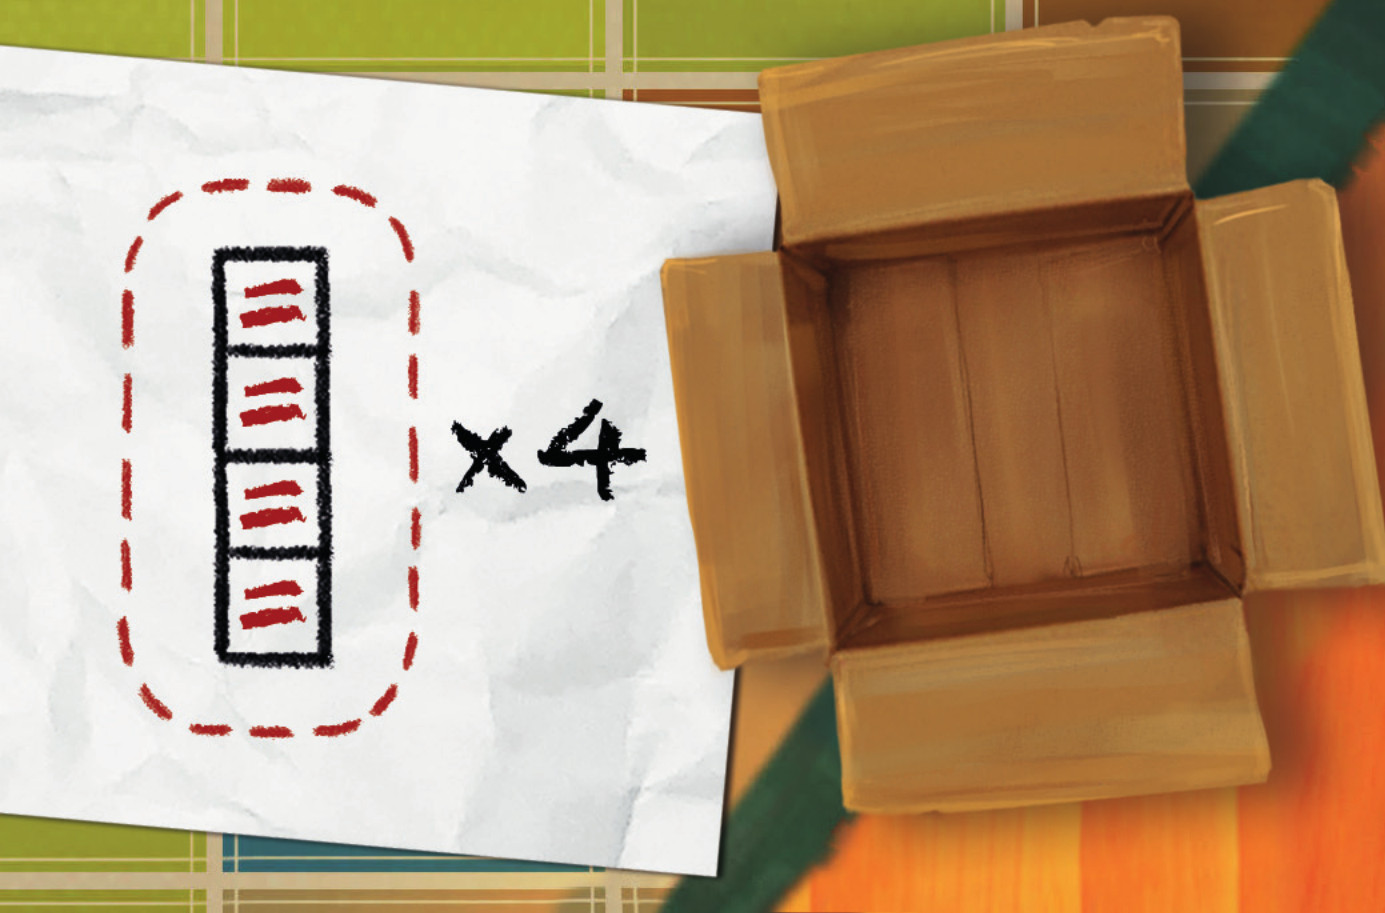
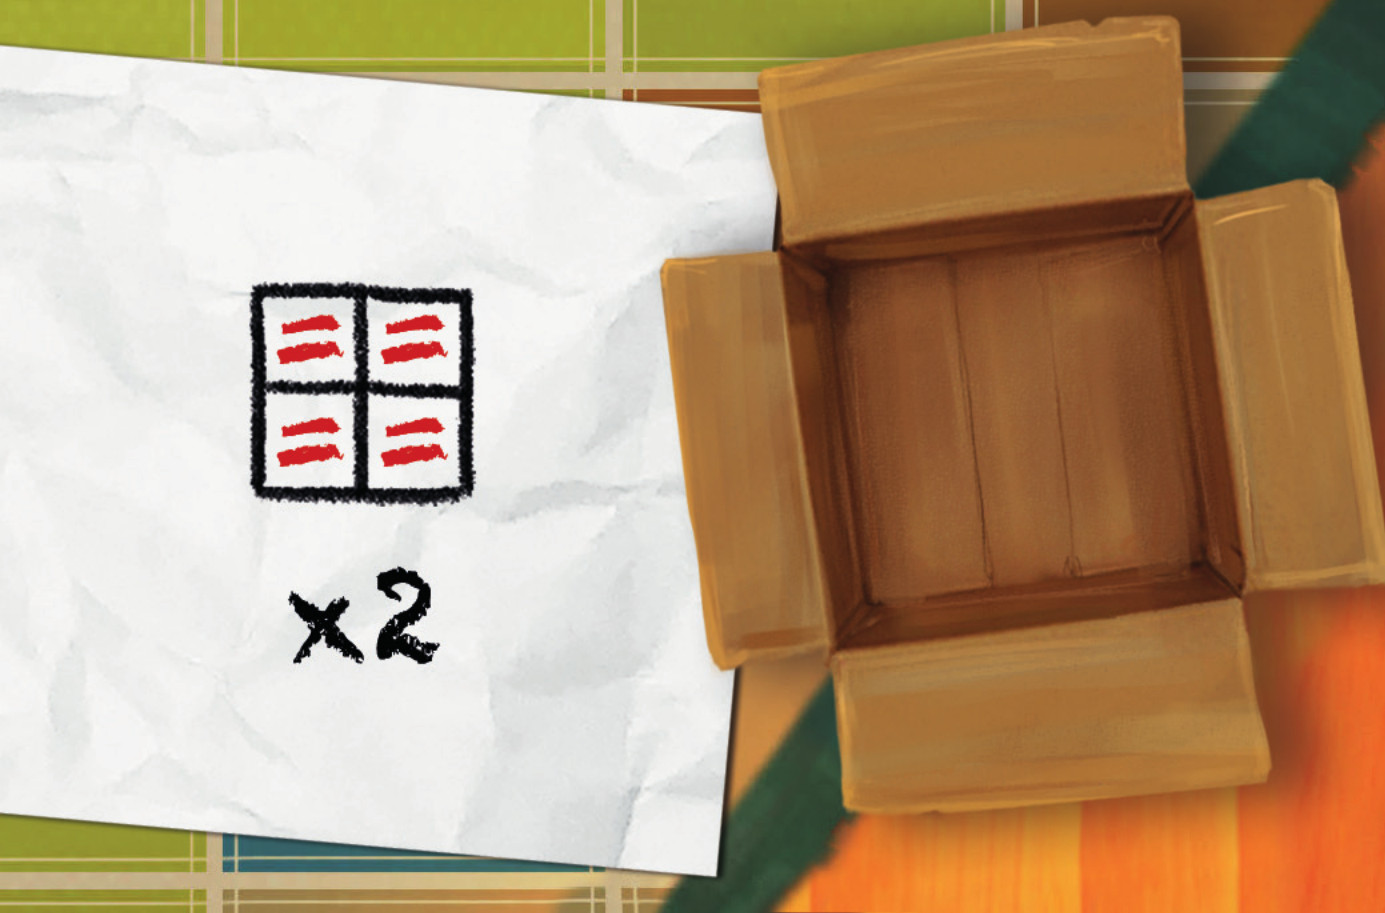
Update Common, images and test

diff --git a/src/test/java/it/polimi/ingsw/model/CommonGoalCardTest.java b/src/test/java/it/polimi/ingsw/model/CommonGoalCardTest.java
@@ -17,7 +17,7 @@ public class CommonGoalCardTest {
         int i = 0;
 
         // Diagonal -> matrix
-        card = cardFactory.getCommonGoalCard(0);
+        card = cardFactory.getCommonGoalCard(11);
         int numTest = 5;
         boolean result;
         while (i<numTest){
@@ -26,7 +26,7 @@ public class CommonGoalCardTest {
             i++;
         }
         // Diagonal -> diagonal
-        card = cardFactory.getCommonGoalCard(1);
+        card = cardFactory.getCommonGoalCard(6);
         numTest += 5;
         while (i<numTest){
             result = card.checkFullFil(input.getInputLibrary(i));
@@ -34,14 +34,6 @@ public class CommonGoalCardTest {
             i++;
         }
         //Group -> x4 group
-        card = cardFactory.getCommonGoalCard(2);
-        numTest += 3;
-        while (i<numTest){
-            result = card.checkFullFil(input.getInputLibrary(i));
-            Assertions.assertEquals(input.getResult(i), (result) ? 1 : 0, "Matrice numero: "+ i);
-            i++;
-        }
-        //Group -> x4 line
         card = cardFactory.getCommonGoalCard(3);
         numTest += 3;
         while (i<numTest){
@@ -49,8 +41,16 @@ public class CommonGoalCardTest {
             Assertions.assertEquals(input.getResult(i), (result) ? 1 : 0, "Matrice numero: "+ i);
             i++;
         }
+        //Group -> x4 line
+        card = cardFactory.getCommonGoalCard(1);
+        numTest += 3;
+        while (i<numTest){
+            result = card.checkFullFil(input.getInputLibrary(i));
+            Assertions.assertEquals(input.getResult(i), (result) ? 1 : 0, "Matrice numero: "+ i);
+            i++;
+        }
         //Group -> x2
-        card = cardFactory.getCommonGoalCard(4);
+        card = cardFactory.getCommonGoalCard(0);
         numTest += 2;
         while (i<numTest){
             result = card.checkFullFil(input.getInputLibrary(i));
@@ -58,7 +58,7 @@ public class CommonGoalCardTest {
             i++;
         }
         // Corner
-        card = cardFactory.getCommonGoalCard(5);
+        card = cardFactory.getCommonGoalCard(2);
         numTest += 2;
         while (i<numTest){
             result = card.checkFullFil(input.getInputLibrary(i));
@@ -66,7 +66,7 @@ public class CommonGoalCardTest {
             i++;
         }
         // X
-        card = cardFactory.getCommonGoalCard(6);
+        card = cardFactory.getCommonGoalCard(10);
         numTest +=2;
         while (i<numTest){
             result = card.checkFullFil(input.getInputLibrary(i));
@@ -74,14 +74,6 @@ public class CommonGoalCardTest {
             i++;
         }
         // Different -> columns
-        card = cardFactory.getCommonGoalCard(7);
-        numTest +=2;
-        while (i<numTest){
-            result = card.checkFullFil(input.getInputLibrary(i));
-            Assertions.assertEquals(input.getResult(i), (result) ? 1 : 0, "Matrice numero: "+ i);
-            i++;
-        }
-        // Different -> rows
         card = cardFactory.getCommonGoalCard(8);
         numTest +=2;
         while (i<numTest){
@@ -89,8 +81,16 @@ public class CommonGoalCardTest {
             Assertions.assertEquals(input.getResult(i), (result) ? 1 : 0, "Matrice numero: "+ i);
             i++;
         }
-        // MaxDifferent -> columns
+        // Different -> rows
         card = cardFactory.getCommonGoalCard(9);
+        numTest +=2;
+        while (i<numTest){
+            result = card.checkFullFil(input.getInputLibrary(i));
+            Assertions.assertEquals(input.getResult(i), (result) ? 1 : 0, "Matrice numero: "+ i);
+            i++;
+        }
+        // MaxDifferent -> columns
+        card = cardFactory.getCommonGoalCard(4);
         numTest += 3;
         while (i<numTest){
             result = card.checkFullFil(input.getInputLibrary(i));
@@ -98,7 +98,7 @@ public class CommonGoalCardTest {
             i++;
         }
         // MaxDifferent -> rows
-        card = cardFactory.getCommonGoalCard(10);
+        card = cardFactory.getCommonGoalCard(7);
         numTest += 3;
         while (i<numTest){
             result = card.checkFullFil(input.getInputLibrary(i));
@@ -106,7 +106,7 @@ public class CommonGoalCardTest {
             i++;
         }
         // SameEight
-        card = cardFactory.getCommonGoalCard(11);
+        card = cardFactory.getCommonGoalCard(5);
         numTest += 2;
         while (i<numTest){
             result = card.checkFullFil(input.getInputLibrary(i));

diff --git a/src/main/java/it/polimi/ingsw/model/common_card_classes/GroupCommonGoalCard.java b/src/main/java/it/polimi/ingsw/model/common_card_classes/GroupCommonGoalCard.java
@@ -24,7 +24,8 @@ public class GroupCommonGoalCard extends CommonGoalCard {
         int color, colorGroup=0;
 
 
-        if(type == 2){
+        if(type == 3){
+             // Square
             Item item1, item2, item3;
             Item pre1, pre2;
             for(int i = 0 ; i < 5; i++){
@@ -83,12 +84,14 @@ public class GroupCommonGoalCard extends CommonGoalCard {
                     }
                     if(allWithSameColor) {
                         colorGroup++;
+                        allWithSameColor = false;
                     }
                 }
             }
             return colorGroup >= 2;
         }
-        else if(type == 3 || type == 4){
+        else if(type == 1 || type == 0){
+            // Adiacency
             int nGroup = 0;
             int counter = 0;
             Item[][] mat = new Item[nRows][nColumns];
@@ -114,12 +117,12 @@ public class GroupCommonGoalCard extends CommonGoalCard {
                         mask[i][j] = true;
                         counter = countNearbyItems(i, j, counter, mat[i][j].getType(), mat);
 
-                        nGroup += counter / ((type == 3)? 4: 2);
+                        nGroup += counter / ((type == 1)? 4: 2);
                     }
 
                 }
             }
-            return nGroup >= ((type == 3) ? 4 : 6);
+            return nGroup >= ((type == 1) ? 4 : 6);
         }
         return false;
     }

diff --git a/src/main/java/it/polimi/ingsw/controller/Controller.java b/src/main/java/it/polimi/ingsw/controller/Controller.java
@@ -19,7 +19,8 @@ import java.util.ArrayList;
  * It provides methods for adding players, handling player actions, managing chat messages,
  * and maintaining the overall game flow.
  */
-public class Controller extends UnicastRemoteObject implements ControllerSkeleton {
+//extends UnicastRemoteObject
+public class Controller implements ControllerSkeleton {
 
     private final GameplaysHandler gameplaysHandler;
 
@@ -28,10 +29,8 @@ public class Controller extends UnicastRemoteObject implements ControllerSkeleto
      *
      * @throws RemoteException if a remote communication error occurs
      */
-    private final Registry registry;
-    public Controller(Registry registry) throws RemoteException{
+    public Controller() throws RemoteException{
         gameplaysHandler = new GameplaysHandler();
-        this.registry = registry;
     }
 
     /**
@@ -395,7 +394,7 @@ public class Controller extends UnicastRemoteObject implements ControllerSkeleto
      * @throws RemoteException if a remote communication error occurs
      */
     public synchronized void ping(int n) throws RemoteException{
-
+        System.out.println("Test -------");
     }
 
 }

diff --git a/src/main/java/it/polimi/ingsw/model/CommonGoalCardFactory.java b/src/main/java/it/polimi/ingsw/model/CommonGoalCardFactory.java
@@ -14,19 +14,19 @@ public class CommonGoalCardFactory {
      * @return A common goal card of the specified type, or {@code null} if the type is invalid.
      */
     public CommonGoalCard getCommonGoalCard(int type) {
-        if (type == 0 || type == 1)
+        if (type == 6 || type == 11)
             return new DiagonalCommonGoalCard(type);
-        else if (type == 2 || type == 3 || type == 4)
+        else if (type == 3 || type == 1 || type == 0)
             return new GroupCommonGoalCard(type);
-        else if (type == 5)
+        else if (type == 2)
             return new CornerCommonGoalCard(type);
-        else if (type == 6)
+        else if (type == 10)
             return new XCommonGoalCard(type);
-        else if (type == 7 || type == 8)
+        else if (type == 8 || type == 9)
             return new DifferentCommonGoalCard(type);
-        else if (type == 9 || type == 10)
+        else if (type == 4 || type == 7)
             return new MaxDifferentCommonGoalCard(type);
-        else if (type == 11)
+        else if (type == 5)
             return new SameEightCommonGoalCard(type);
         return null;
     }

diff --git a/src/main/java/it/polimi/ingsw/controller/ListenerRMI.java b/src/main/java/it/polimi/ingsw/controller/ListenerRMI.java
@@ -52,7 +52,9 @@ public class ListenerRMI extends Listener{
                                 }
                                 case JOIN ->{
                                         JoinMessage message = (JoinMessage) sendable;
+                                        System.out.println("TEST ----------------------------------------");
                                         client.playerJoin(message.name);
+                                        System.out.println("TEST join----------------------------------------");
                                 }
                                 case LEAVE -> {
                                         LeaveMessage message = (LeaveMessage) sendable;

diff --git a/src/main/java/it/polimi/ingsw/model/common_card_classes/DifferentCommonGoalCard.java b/src/main/java/it/polimi/ingsw/model/common_card_classes/DifferentCommonGoalCard.java
@@ -21,7 +21,7 @@ public class DifferentCommonGoalCard extends CommonGoalCard {
         Set<Integer> colorSet = new HashSet<>();
         int colorGroupCounter = 0;
 
-        if(type == 7){
+        if(type == 8){
             Item item;
             for (int i = 0; i<5;i++){
                 for(int j=0;j<6;j++){
@@ -36,7 +36,7 @@ public class DifferentCommonGoalCard extends CommonGoalCard {
             }
             return false;
         }
-        else if(type == 8){
+        else if(type == 9){
             Item item;
             for (int i = 0; i<6;i++){
                 for(int j=0;j<5;j++){

diff --git a/src/main/java/it/polimi/ingsw/model/common_card_classes/MaxDifferentCommonGoalCard.java b/src/main/java/it/polimi/ingsw/model/common_card_classes/MaxDifferentCommonGoalCard.java
@@ -20,7 +20,7 @@ public class MaxDifferentCommonGoalCard extends CommonGoalCard {
         Set<Integer> colorSet = new HashSet<>();
         int colorGroupCounter = 0;
         Item item = null;
-        if(type == 9){
+        if(type == 4){
 
             for (int i = 0; i<5;i++){
                 for(int j=0;j<6;j++){
@@ -34,7 +34,7 @@ public class MaxDifferentCommonGoalCard extends CommonGoalCard {
             }
             return false;
         }
-        else if(type == 10){
+        else if(type == 7){
             for (int i = 0; i<6; i++){
                 for(int j = 0; j<5; j++){
 

diff --git a/src/main/java/it/polimi/ingsw/client/view/GUI/controllers/GameController.java b/src/main/java/it/polimi/ingsw/client/view/GUI/controllers/GameController.java
@@ -706,7 +706,7 @@ public class GameController implements GUIController {
         return imageView.getImage() == null;
     }
     public String getCommonPathByType(int type) {
-        return "/Images/common/" + (type + 1) + ".jpg";
+        return "/Images/common/" + (type) + ".jpg";
     }
     public String getPersonalByType(int n) {
         return "/Images/personal/" + n + ".png";

diff --git a/src/main/java/it/polimi/ingsw/client/view/GUI/SceneHandler.java b/src/main/java/it/polimi/ingsw/client/view/GUI/SceneHandler.java
@@ -42,7 +42,7 @@ public class SceneHandler {
         // COMMON CARD
         file = "/Images/common/";
         for(int i = 0; i<12; i++){
-            img = file + String.valueOf(i+1) + ".jpg";
+            img = file + String.valueOf(i) + ".jpg";
             url = getClass().getResource(img);
             this.images_common.add(new Image(url.toString()));
         }

diff --git a/src/main/java/it/polimi/ingsw/model/common_card_classes/DiagonalCommonGoalCard.java b/src/main/java/it/polimi/ingsw/model/common_card_classes/DiagonalCommonGoalCard.java
@@ -15,7 +15,7 @@ public class DiagonalCommonGoalCard extends CommonGoalCard {
     @Override
     public boolean checkFullFil(Bookshelf library) {
 
-        if (type == 1) {
+        if (type == 6) {
 
             // Diagonale con colore uguale
 
